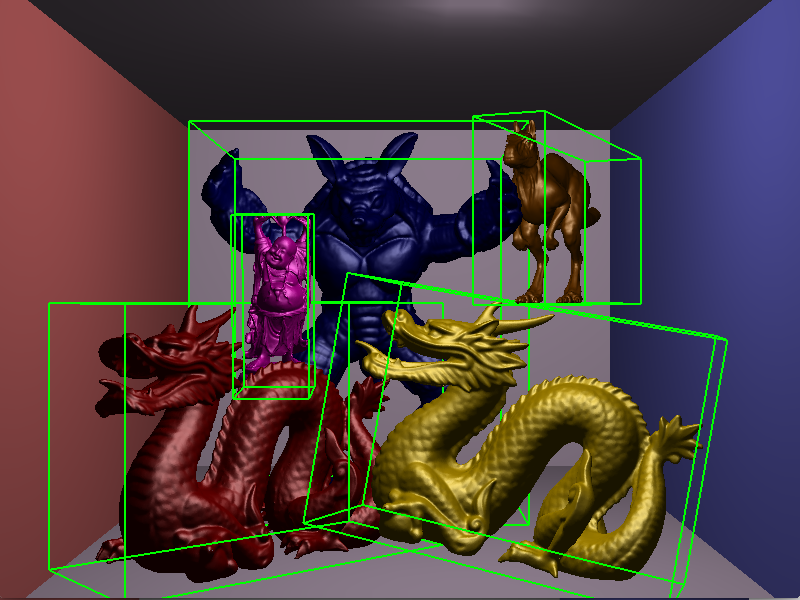
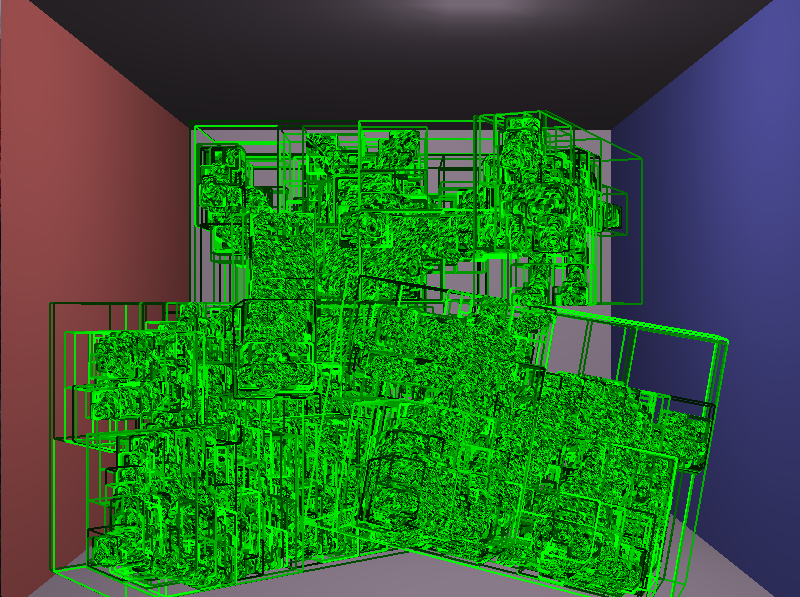
Updated prj6 page

diff --git a/courses/cs6620/prj6.html b/courses/cs6620/prj6.html
@@ -57,7 +57,11 @@ h3 {
   <a href="teapot-bvh.png">
     <img src="teapot-bvh.png" width="800px" height="600px" vspace="5px">
       </a></center>
-<center><h3 style="margin-bottom:5px; margin-top:30px">Imaging showing Bounding Volume Hierarchy</h3>
+<center><h3 style="margin-bottom:0px; margin-top:0px"><p class="serif">Stanford Bunny with BVH, BC: 16, 512 samples per pixel (Time to RayCast: 1 hour, 56 minutes and 8secs)</p></h3>
+  <a href="glass bunny.png">
+    <img src="glass bunny.png" width="800px" height="600px" vspace="5px">
+      </a></center>
+<center><h3 style="margin-bottom:5px; margin-top:30px">Image illustrating Bounding Volume Hierarchy</h3>
   <a href="BVH.png">
     <img src="BVH.png" width="800px" height="600px" vspace="5px">
       </a></center>
